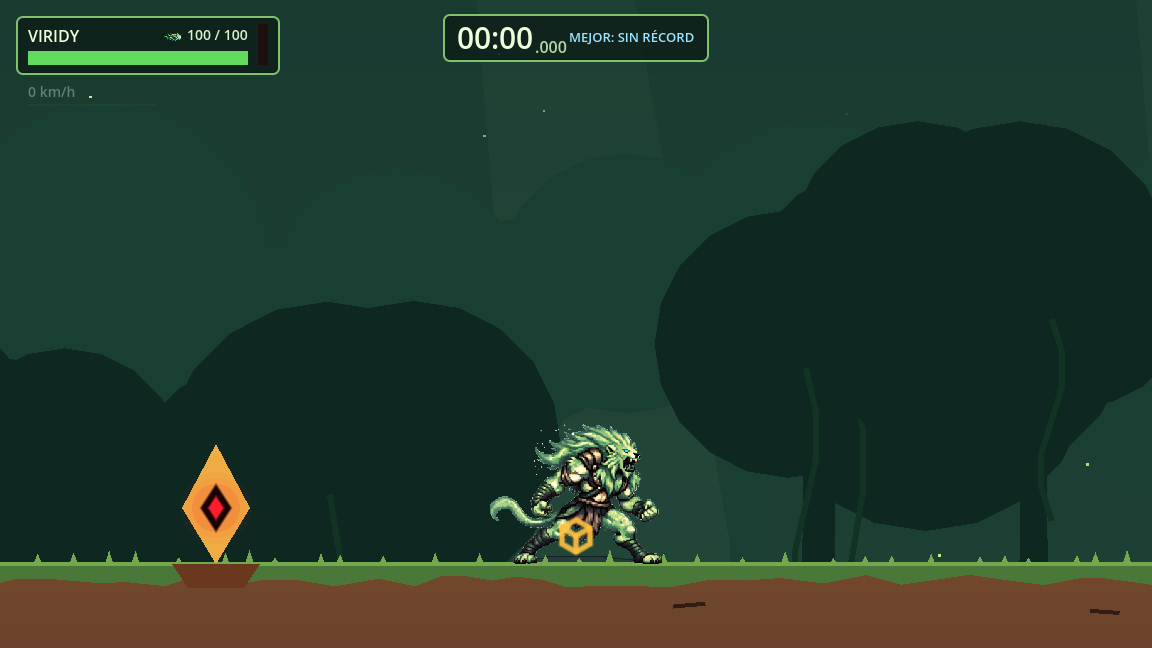
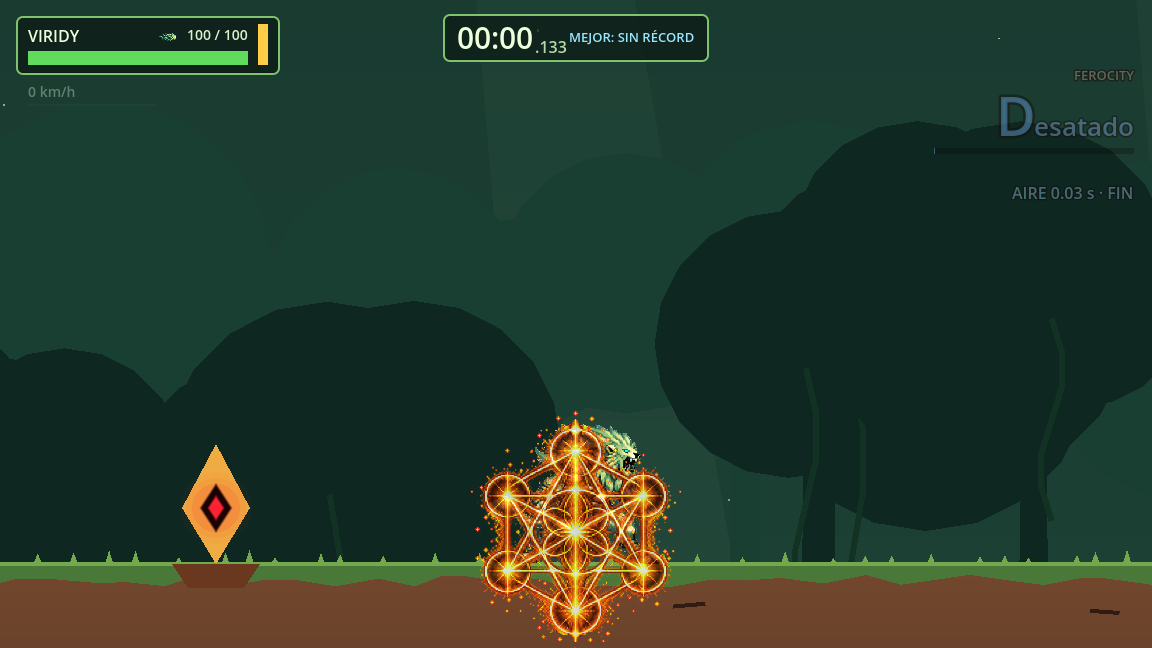
Restore the original immediate Metatron shine appearance

diff --git a/docs/combat_feedback/index.html b/docs/combat_feedback/index.html
@@ -18,7 +18,7 @@ const groups=[
  ['Ruby · Vida y postura',[['ruby_100','100% · Rojo y contorno completos'],['ruby_50','50% · Fondo oscuro y perímetro parcial'],['ruby_20','20% · Poca vida y postura'],['ruby_0','0% · Núcleo oscuro']]],
  ['Guardián · Giro vertical',Array.from({length:4},(_,i)=>['spin_0_'+i,'Plano vertical · Pose '+(i+1)])],
  ['Guardián · Giro horizontal',Array.from({length:4},(_,i)=>['spin_1_'+i,'Plano horizontal · Pose '+(i+1)])],
- ['Shine · Formación',[['shine_0','0,00 s · Cubo dorado pequeño'],['shine_16','0,16 s · Formación del sello'],['shine_30','0,30 s · Metatrón completo translúcido']]],
+ ['Shine · Metatrón original',[['shine_0','0,00 s · Metatrón completo con brillo inicial'],['shine_16','0,16 s · Comienza el giro del aura'],['shine_30','0,30 s · Metatrón latente con opacidad original']]],
  ['Controles y Ready',[['taunt','Select / R · Taunt inmediato'],['pause','Reinicios desde Pausa'],['ready_0','Ready · 0.00'],['ready_50','Ready · 0.50'],['go','GO! · 1.00']]]
 ];
 const group=document.querySelector('#group'),slider=document.querySelector('#frame'),image=document.querySelector('#image');

diff --git a/docs/combat_feedback/README.md b/docs/combat_feedback/README.md
@@ -1,6 +1,6 @@
 # Combate, Ruby y controles
 
-`index.html` permite revisar capturas reales del renderer de Godot: combo en ambas direcciones, vida y postura del Ruby, las dos variantes del giro, la formación del shine, taunt, pausa y Ready/GO. Se reutilizan los sprites existentes y no se borra arte anterior.
+`index.html` permite revisar capturas reales del renderer de Godot: combo en ambas direcciones, vida y postura del Ruby, las dos variantes del giro, el shine, taunt, pausa y Ready/GO. Se reutilizan los sprites existentes y no se borra arte anterior.
 
 Los slashes del combo se dibujan delante de Viridy. El tercer golpe refleja horizontalmente su media luna; el reflejo se combina con la orientación del personaje. Al entrar en un dash se limpia ese reflejo y su estela conserva su capa anterior.
 
@@ -12,7 +12,7 @@ Select (R en teclado) activa la pose orgullosa estando quieto en el suelo. Se ma
 
 Ready muestra 0.00 y cuenta hasta 1.00 en un segundo real. Durante ese segundo el mundo está detenido; el reloj de la run empieza con GO. Se conservan los sonidos de Ready y GO y se añade el pulso intermedio a 0,50 s.
 
-El shine comienza con un cubo isométrico dorado de 16 px de alto. Entre 0,08 y 0,24 s se forma el Metatrón existente; completo usa una opacidad aproximada de 0,43 y gira. Las ondas visuales comienzan ligeramente después del cubo, y el destello de impacto se conserva al conectar un parry, sin el destello grande automático al pulsar. El radio del parry, sus 0,16 s, i-frames, empuje y bloqueo no se modifican.
+El shine recupera su Metatrón anterior: aparece completo de inmediato, derecho, a tamaño normal, con opacidad 0,8 y un brillo inicial. Después del parry gira lentamente, pulsa y mantiene su opacidad original entre 0,5 y 0,7. Se conservan las ondas del rugido y el destello al conectar un parry. El radio del parry, sus 0,16 s, i-frames, empuje y bloqueo no se modifican.
 
 ```bash
 RUBY1_SKIP_COUNTDOWN=1 godot --path . --rendering-method gl_compatibility --audio-driver Dummy -s res://tools/art/capture_combat_feedback.gd
